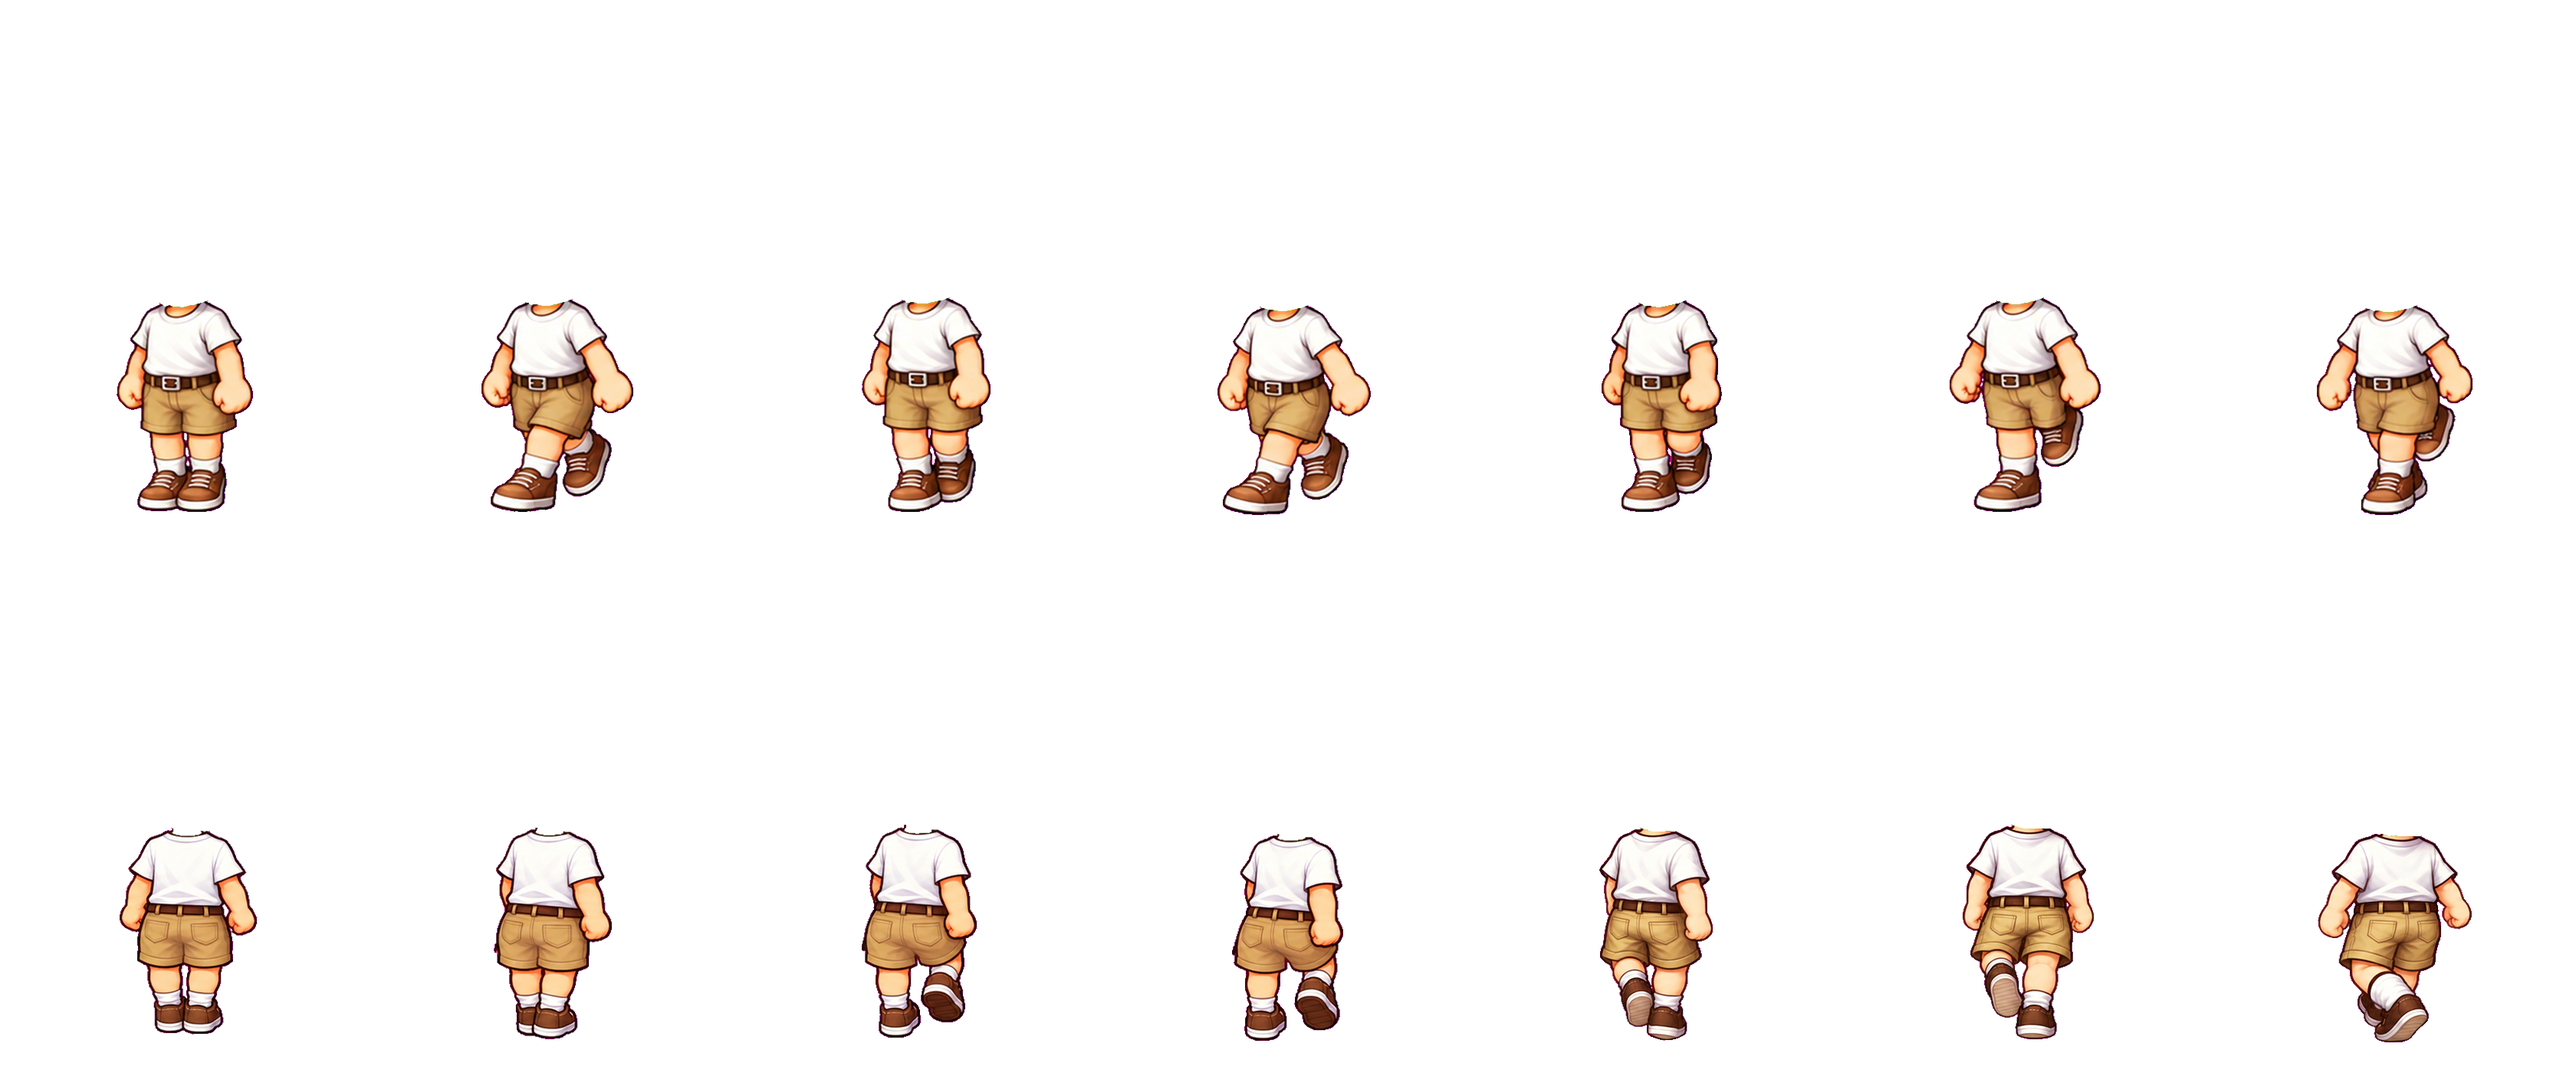
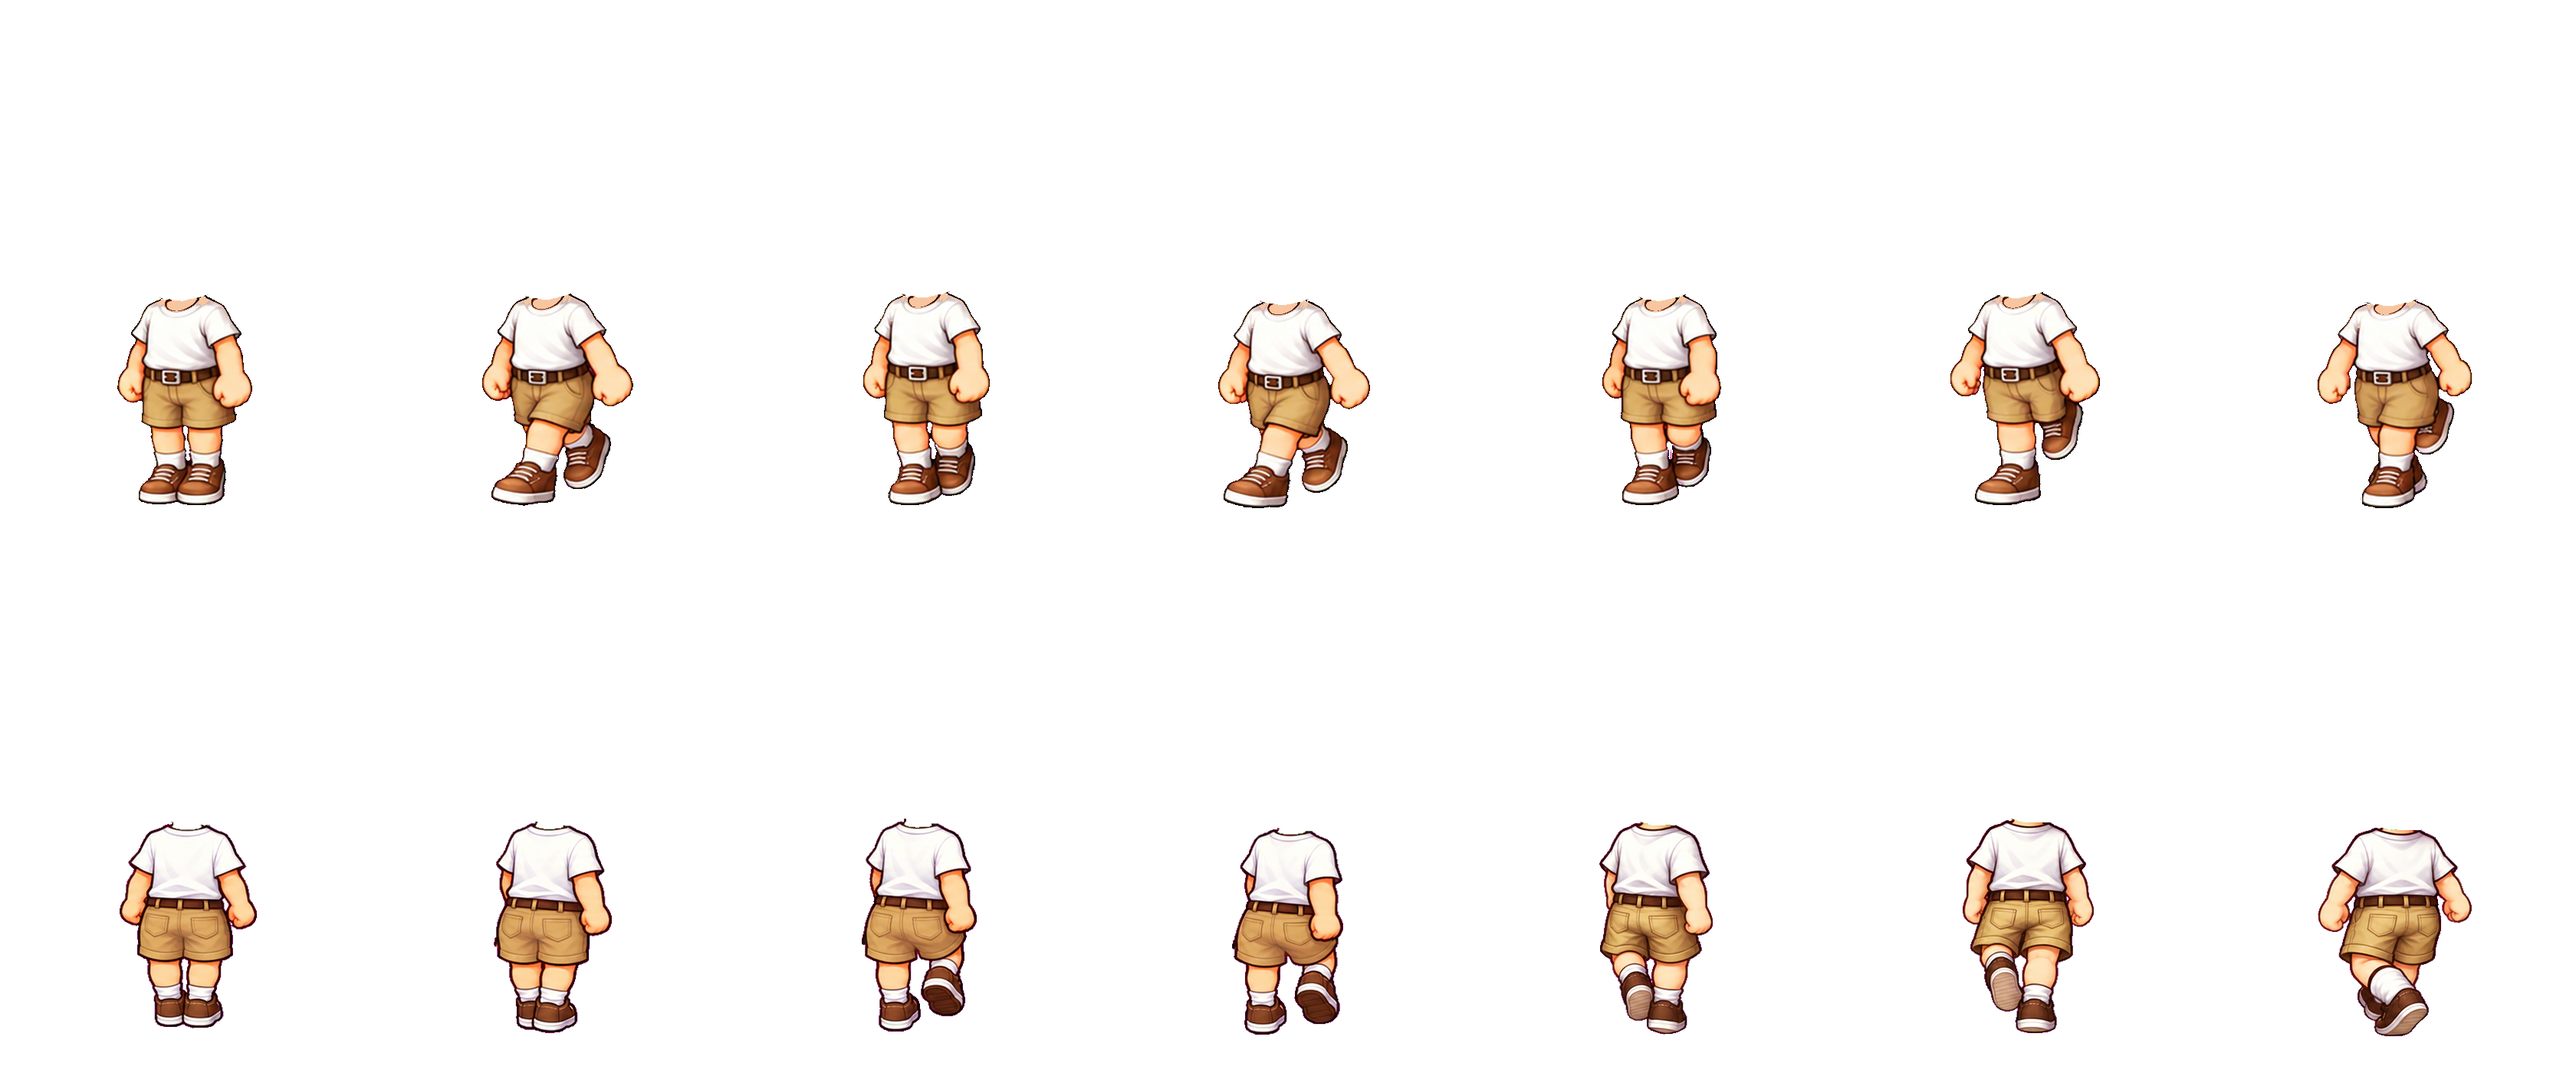
Praça: pescoço sem emenda
O pescoço pintado sobre o toquinho verde vira pele lisa, a franja magenta sai,
a cabeça perde a sombra laranja abaixo do queixo e é desenhada por cima do
corpo, que sobe um pouco para o pescoço entrar sob o queixo.

diff --git a/src/game/character/rig.ts b/src/game/character/rig.ts
@@ -151,7 +151,8 @@ export function drawRigVirtual(c:CanvasRenderingContext2D,eq:Equipment,action:st
  // The front cells are painted turned to the left (DDTank's naturalWalkFront), the back ones walking away to the right:
  // mirror the front so 'facing right' walks right in both (8 directions = front/back x mirror, matheus 22/10).
  c.save();if(!back)c.scale(-1,1);
- if(back){paintBody();paintHead();}else{paintHead();paintBody();}
+ // The head always over the body: the neck tucks under the chin (matheus 22/10, the seam showed with the body on top).
+ paintBody();paintHead();
  c.restore();
  return true;
 }

diff --git a/scripts/kit-v5/build-rig.py b/scripts/kit-v5/build-rig.py
@@ -152,7 +152,23 @@ save(body, 'game', 'outfit-basic-male')
 
 # ---------- praça (VIRTUAL): cabeça 3 células de 480x700 (frente, olhos fechados, costas); corpo 7x2 ----------
 vmold = green(f'{T}/virtualhead-m.png')
-front = [L(f'{K}/camadas-mochila/cabeca-frente.png'), L(f'{K}/camadas-mochila/cabelo-frente.png'), cap_front or empty, hairB_front or empty]
+
+
+def chin_trim(img):
+    # a cabeça da mochila foi cortada um pouco abaixo do queixo e trouxe pescoço/sombra laranja: só esse laranja sai,
+    # nos 15% de baixo da cabeça
+    a = np.asarray(img).copy()
+    al = a[..., 3] > 40
+    rows = np.nonzero(al.any(1))[0]
+    lo = rows.max() - int((rows.max() - rows.min()) * .15)
+    r, g, b = (a[..., i].astype(int) for i in range(3))
+    orange = (r > 190) & (g < 175) & (b < 120) & (r - b > 110)
+    sel = np.zeros(al.shape, bool); sel[lo:] = True
+    a[sel & orange, 3] = 0
+    return Image.fromarray(a)
+
+
+front = [chin_trim(L(f'{K}/camadas-mochila/cabeca-frente.png')), L(f'{K}/camadas-mochila/cabelo-frente.png'), cap_front or empty, hairB_front or empty]
 hairB_back = diff_layer(f'{K}/cabeloB-costas/alinhada.png', f'{K}/costas-careca/costas-careca.png', 10**6) if os.path.exists(f'{K}/cabeloB-costas/alinhada.png') else None
 back = [L(f'{K}/camadas/cabeca-costas.png'), L(f'{K}/camadas/cabelo-costas.png'), L(f'{K}/camadas/bone-costas.png'), hairB_back or Image.new('RGBA', (1254, 1254))]
 vface = Image.new('RGBA', (1440, 700)); vhair = vface.copy(); vhat = vface.copy(); vhairB = vface.copy()
@@ -168,6 +184,26 @@ if hairB_front and hairB_back:
     save(vhairB, 'virtualhead', 'hair-basic-male-B')
 if cap_front:
     save(vhat, 'virtualhead', 'hat-starter')
+def clean_neck(cell):
+    """O pescoço foi pintado sobre o toquinho verde do molde e saiu laranja/esverdeado, com franja magenta (matheus 22/10:
+    "erro na conexão do corpo com a roupa"). No topo do corpo: franja magenta sai; o que não é camiseta branca nem
+    contorno escuro vira pele lisa."""
+    a = np.asarray(cell).astype(int).copy()
+    m = a[..., 3] > 40
+    rows = np.nonzero(m.any(1))[0]
+    if not len(rows):
+        return cell
+    top = rows.min(); band = np.zeros(m.shape, bool); band[top:top + max(8, int((rows.max() - top) * .14))] = True
+    r, g, b = a[..., 0], a[..., 1], a[..., 2]
+    magenta = (r > g + 40) & (b > g + 20)
+    a[magenta & (r < 200), 3] = 0  # franja magenta do fundo, em qualquer lugar
+    white = (r > 185) & (g > 175) & (b > 170) & (np.abs(r - b) < 40)
+    dark = r + g + b < 260
+    neck = band & m & ~magenta & ~white & ~dark
+    a[neck, :3] = (247, 198, 160)
+    return Image.fromarray(a.astype(np.uint8))
+
+
 def fit_to_mold(cell, mold):
     """Cada prancha da praça saiu numa escala (matheus 22/10: o andar de lado ficou esquisito, os quadros 4-6 maiores):
     o corpo pintado vai para a altura do boneco cinza do molde, pés na base dele, centrado nele; sobras soltas saem."""
@@ -186,7 +222,9 @@ def fit_to_mold(cell, mold):
     s = (ys.max() - ys.min() + 1) / (pb[3] - pb[1])
     body = img.crop(pb).resize((round((pb[2] - pb[0]) * s), round((pb[3] - pb[1]) * s)), Image.LANCZOS)
     out = Image.new('RGBA', img.size)
-    out.paste(body, (round((xs.min() + xs.max()) / 2 - body.width / 2), ys.max() + 1 - body.height), body)
+    # sobe um pouco: o pescoço entra por baixo do queixo (a cabeça é desenhada por cima do corpo na praça)
+    lift = round(body.height * .03)
+    out.paste(body, (round((xs.min() + xs.max()) / 2 - body.width / 2), ys.max() + 1 - body.height - lift), body)
     return out
 
 
@@ -211,6 +249,6 @@ if os.path.exists(v2):
         x, y = (col % 4) * 480, (col // 4) * 700
         cell = key_out(sheet.crop((x, y, x + 480, y + 700)))
         vbody.paste(Image.new('RGBA', (480, 700)), (col * 480, 0))
-        vbody.paste(fit_to_mold(cell, vmold_body[0:700, col * 480:(col + 1) * 480]), (col * 480, 0))
+        vbody.paste(clean_neck(fit_to_mold(cell, vmold_body[0:700, col * 480:(col + 1) * 480])), (col * 480, 0))
 save(vbody, 'virtual', 'outfit-basic-male')
 print('ok')
